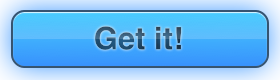
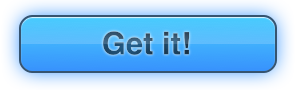
Ameliorated button

diff --git a/multi/index.md b/multi/index.md
@@ -22,8 +22,7 @@ end
             If some are compromised, there is not way to find another one.<br/>
             You only have to remember one password.</p></div>
      <div id="getit">
-        <a href="<%=itunesurl%>">
-            <img src="/img/main/GetIt.png"/></a></div>
+        <a href="<%=itunesurl%>"><img src="/img/main/GetIt.png"/></a></div>
      <div class="flush"></div>
 </div>
 
